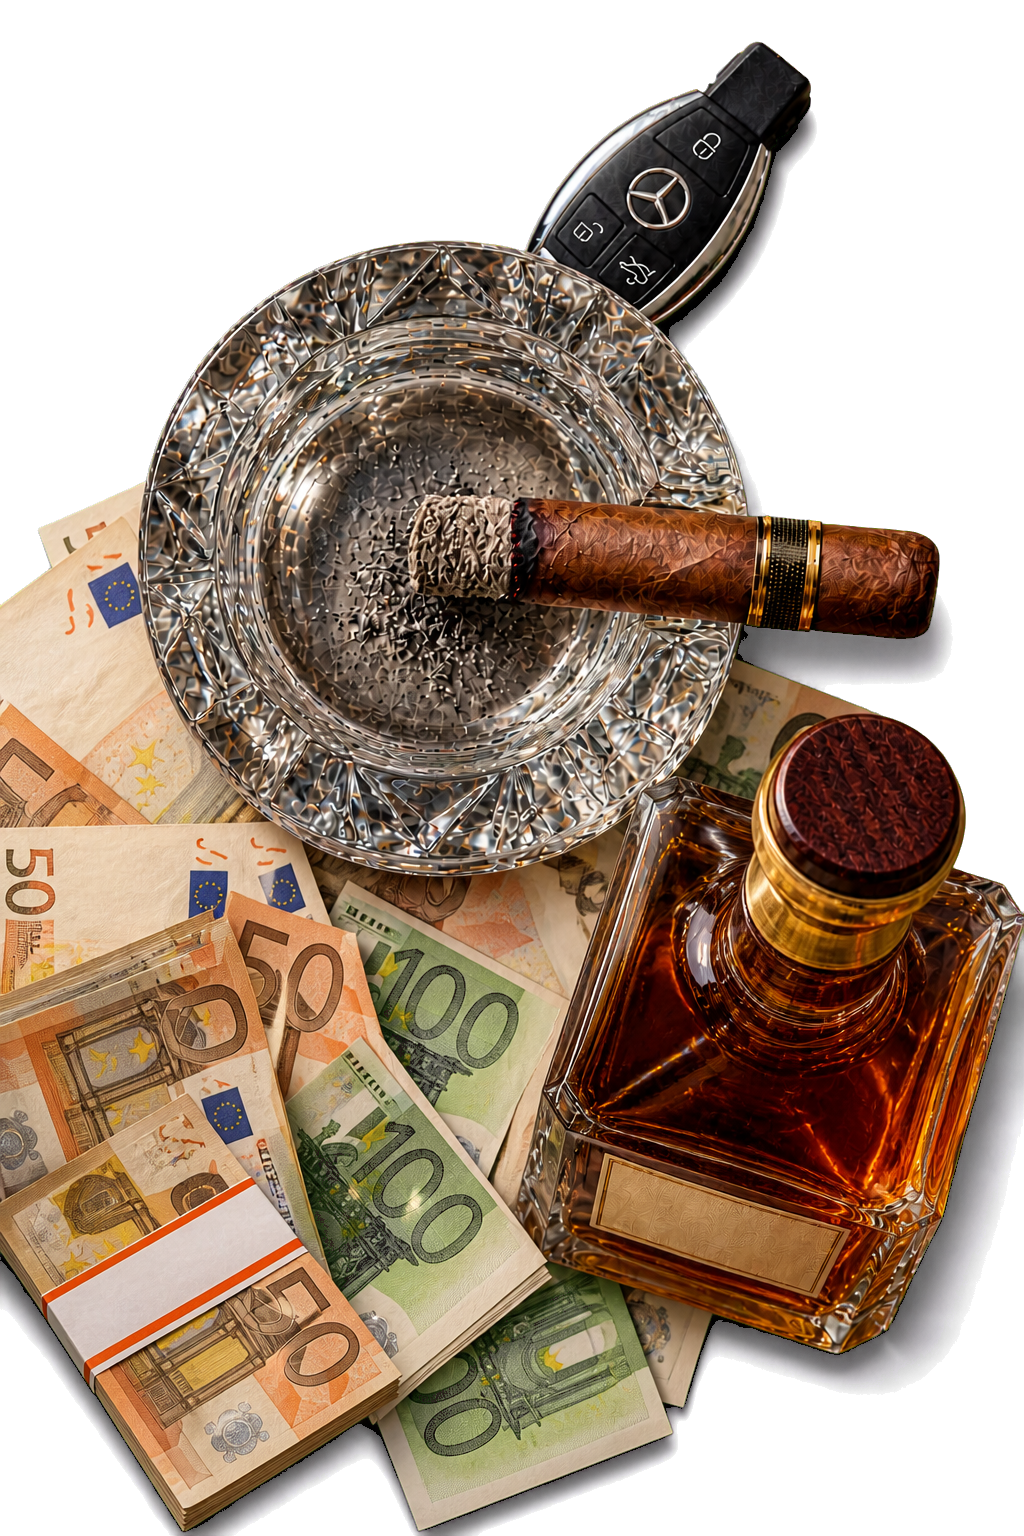
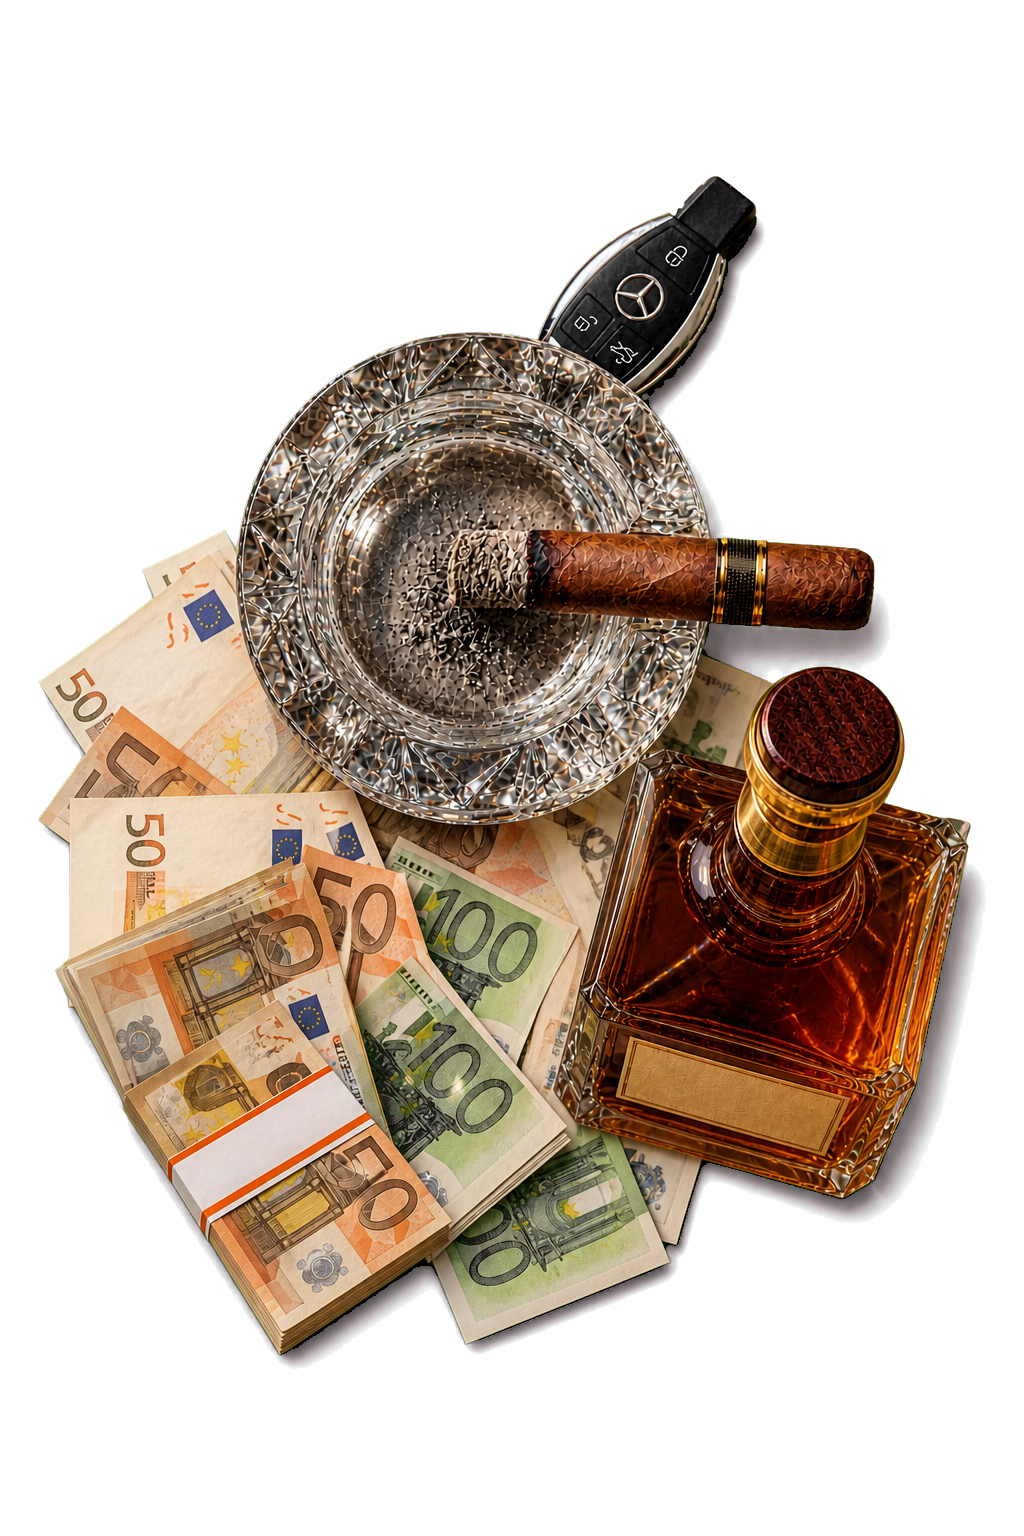
fix rich props clipping

diff --git a/packages/Device/src/Scene/DeviceScene.tsx b/packages/Device/src/Scene/DeviceScene.tsx
@@ -170,9 +170,9 @@ export const DeviceScene = (props: { children: JSX.Element }) => {
           draggable={false}
           style={{
             position: 'fixed',
-            right: '3vw',
+            right: '1.5vw',
             top: '50%',
-            width: 'min(34vw, 72vh, 720px)',
+            width: 'min(38vw, 80vh, 780px)',
             height: 'auto',
             transform: 'translateY(-50%) rotate(-1deg)',
             'transform-origin': 'center',
